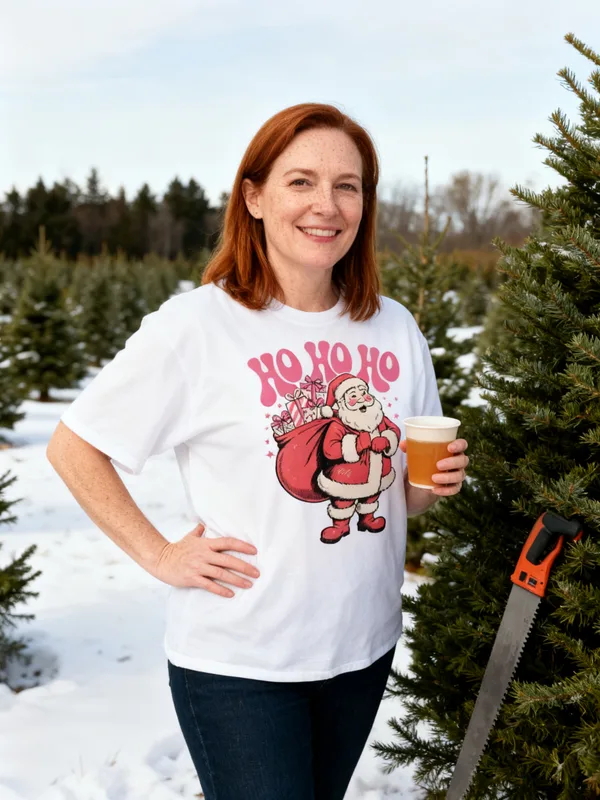
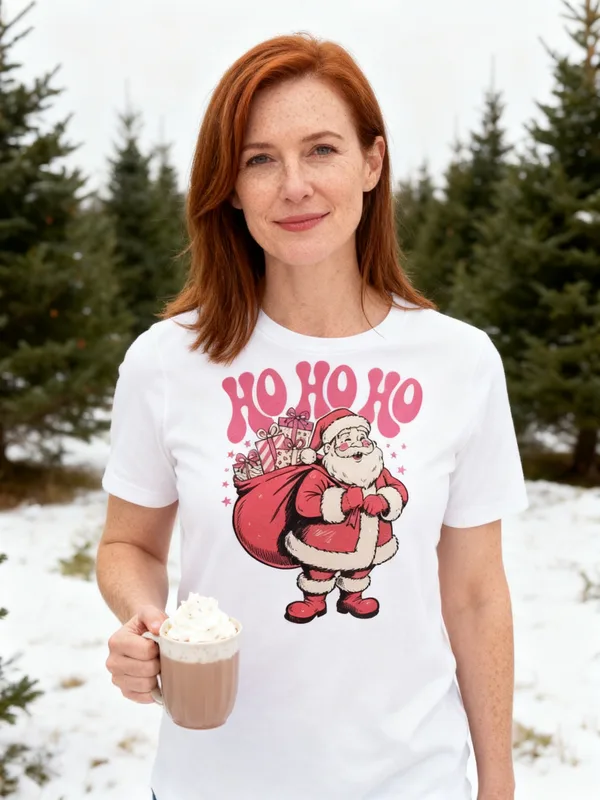
Retro Santa cover redo: hot cocoa, no beer or saw (registry #16)
Claude-Session: https://claude.ai/code/session_01YY5Qm8c54AVNQEfc8GLZrd

diff --git a/src/data/covers.ts b/src/data/covers.ts
@@ -30,7 +30,7 @@ export const covers: Record<string, { src: string; alt: string }> = {
   'unisex-western-desert-rider-graphic-tee': { src: '/covers/unisex-western-desert-rider-graphic-tee.webp', alt: 'Woman at a horse ranch at sunset leaning on a corral fence wearing the Desert Rider tee' },
   'mens-gym-iron-sweat-graphic-tee': { src: '/covers/mens-gym-iron-sweat-graphic-tee.webp', alt: 'Man in a gritty old iron gym with dumbbell racks wearing the Iron & Sweat gym tee' },
   'womens-christmas-gingerbread-lane-graphic-tee': { src: '/covers/womens-christmas-gingerbread-lane-graphic-tee.webp', alt: 'Woman in a cozy kitchen with a finished gingerbread house wearing the Gingerbread Lane Christmas tee' },
-  'womens-christmas-retro-santa-graphic-tee': { src: '/covers/womens-christmas-retro-santa-graphic-tee.webp', alt: 'Woman at a snowy cut-your-own Christmas tree farm with a cup of hot cider wearing the Retro Santa Christmas tee' },
+  'womens-christmas-retro-santa-graphic-tee': { src: '/covers/womens-christmas-retro-santa-graphic-tee.webp', alt: 'Woman at a snowy cut-your-own Christmas tree farm holding a mug of hot cocoa wearing the Retro Santa Christmas tee' },
   'unisex-halloween-night-shift-graphic-tee': { src: '/covers/unisex-halloween-night-shift-graphic-tee.webp', alt: 'Man in a retro video rental store on Halloween night wearing the Night Shift Halloween tee' },
 };
 

diff --git a/docs/model-registry.md b/docs/model-registry.md
@@ -18,7 +18,7 @@ Each row is one person. Before generating a new photo, pick a description that d
 | 13 | White woman in her early 60s, short white pixie cut, slim build, light smile lines, small gold hoop earrings | RESERVED — cover for Women's Christmas – Nutcracker Bow Tee (docs/design-briefs.md #3) |
 | 14 | Latina woman in her late 20s, long straight black hair with blunt bangs, petite build | RESERVED — cover for Women's Christmas – Pink Christmas Trees Tee (docs/design-briefs.md #4; was Glass Ornaments) |
 | 15 | Native American woman in her mid-30s, long straight black hair worn down past her shoulders, medium build, small silver stud earrings | RESERVED — cover for Women's Christmas – Christmas Cats Tee (docs/design-briefs.md #5; was Home for the Holidays) |
-| 16 | White woman in her mid-40s, chin-length auburn hair with a side part, light freckles, average build | USED 2026-10-09 — Retro Santa cover (fal Seedream 4, tree farm; 2nd try, 1st had no headroom) |
+| 16 | White woman in her mid-40s, chin-length auburn hair with a side part, light freckles, average build | USED 2026-10-09 — Retro Santa cover (fal Seedream 4, tree farm; redone 2026-10-09 with hot cocoa, no beer/saw) |
 | 17 | Middle Eastern woman in her early 30s, long dark wavy hair worn down, medium build | RESERVED — cover for Women's Christmas – Lit Up Bow Tee (docs/design-briefs.md #7) |
 | 18 | Black woman in her mid-20s, short platinum-dyed buzz cut, tall slim build, small gold nose stud | RESERVED — cover for Women's Christmas – Oh Deer Tee (docs/design-briefs.md #8) |
 | 19 | White woman in her early 50s, long straight grey-blonde hair, reading glasses pushed up on her head, soft build | RESERVED — cover for Women's Christmas – Holly Jolly Tee (docs/design-briefs.md #9; was Christmas Movie Night) |
